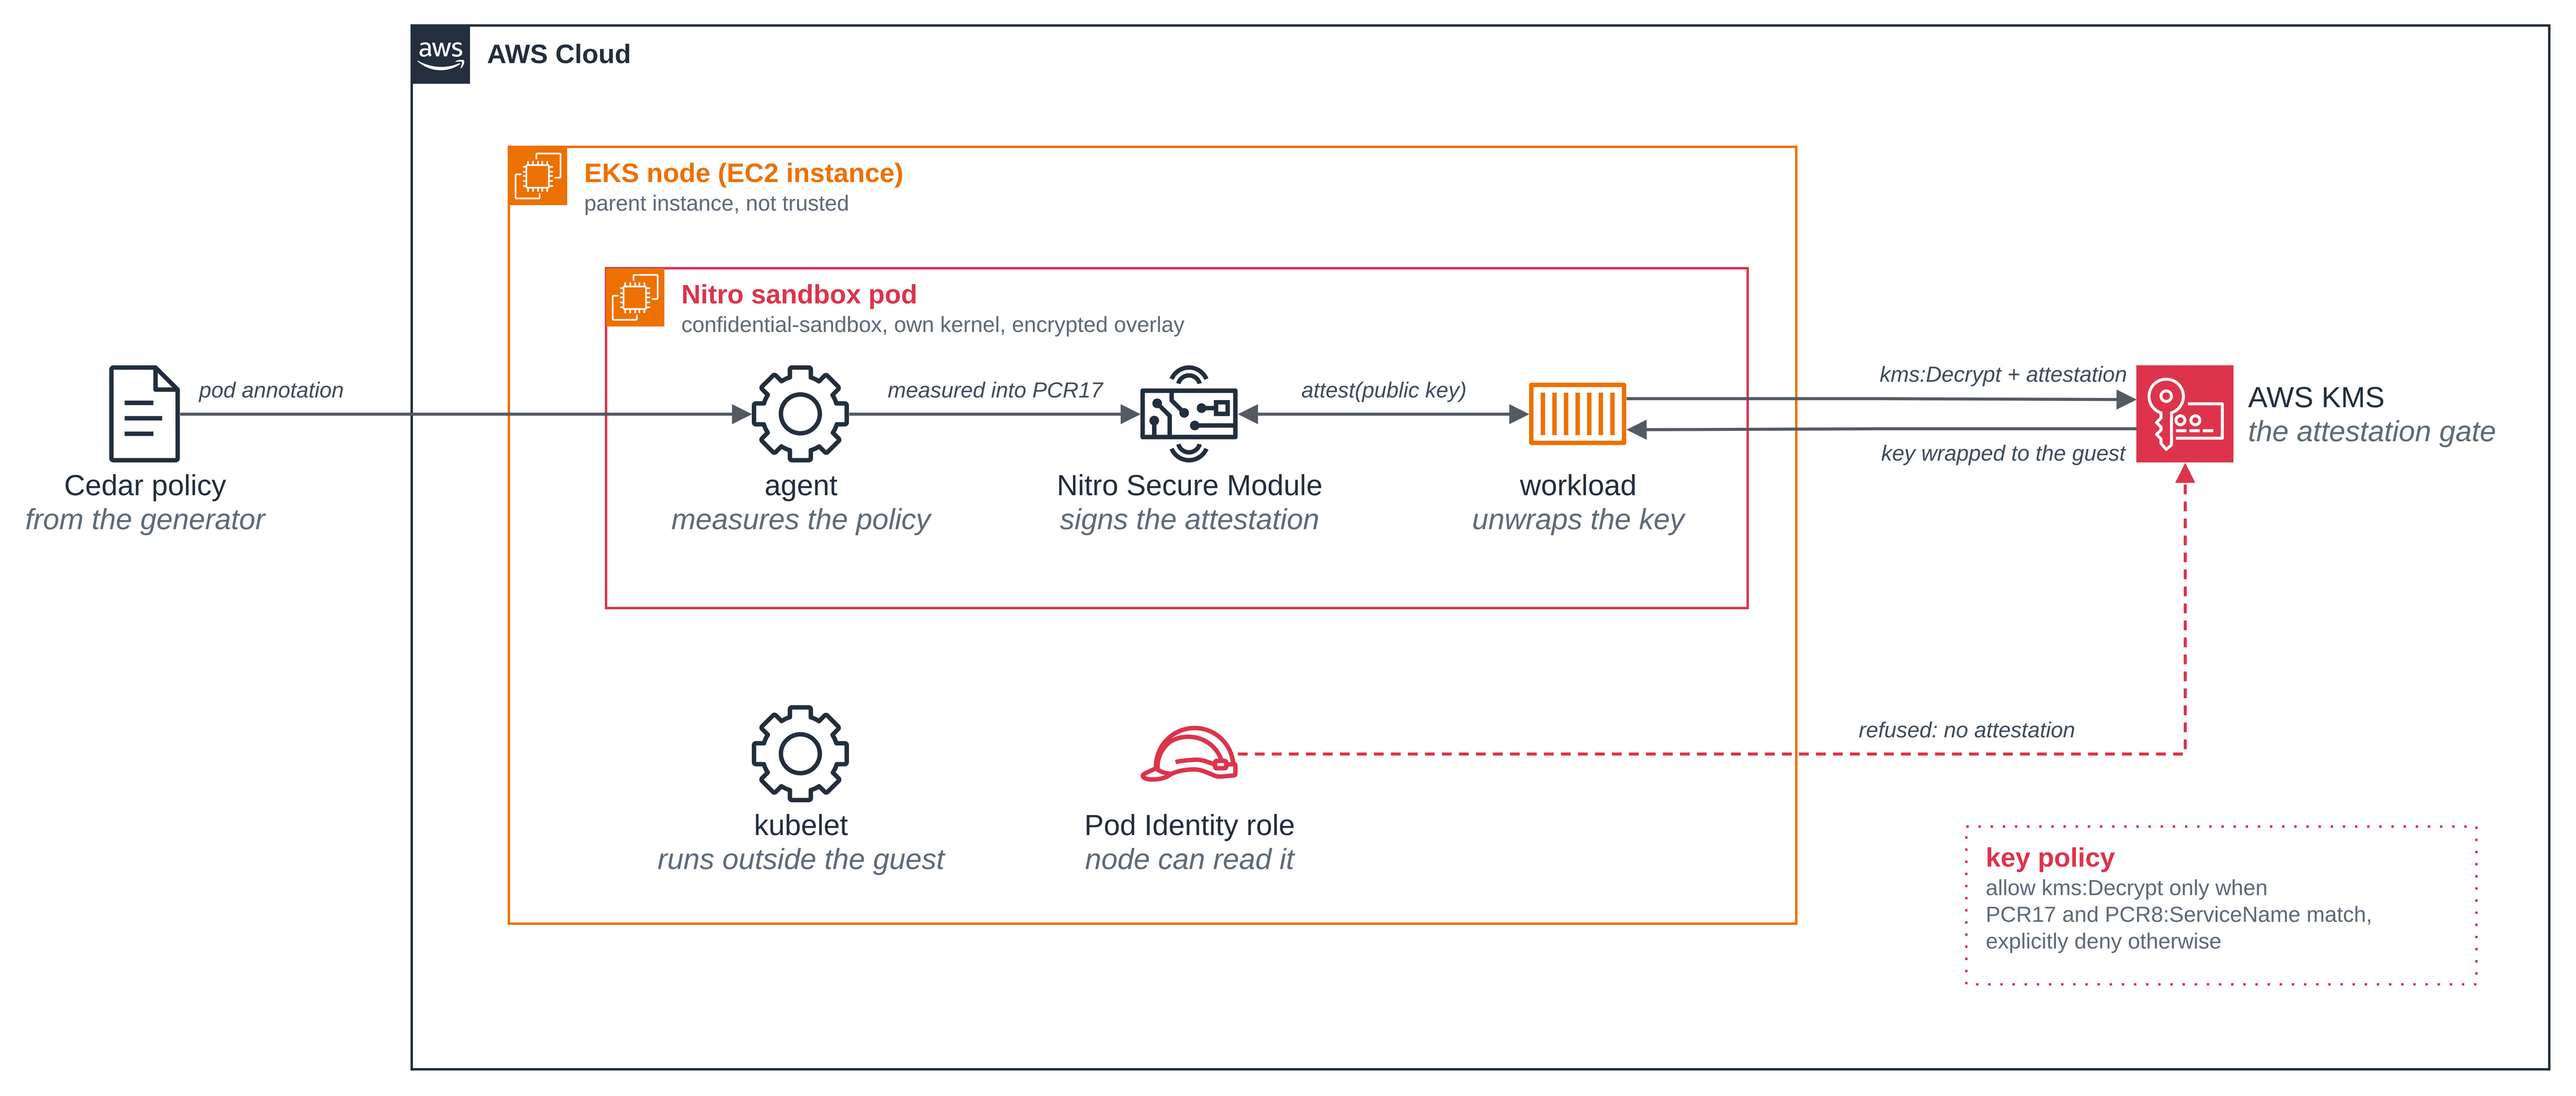
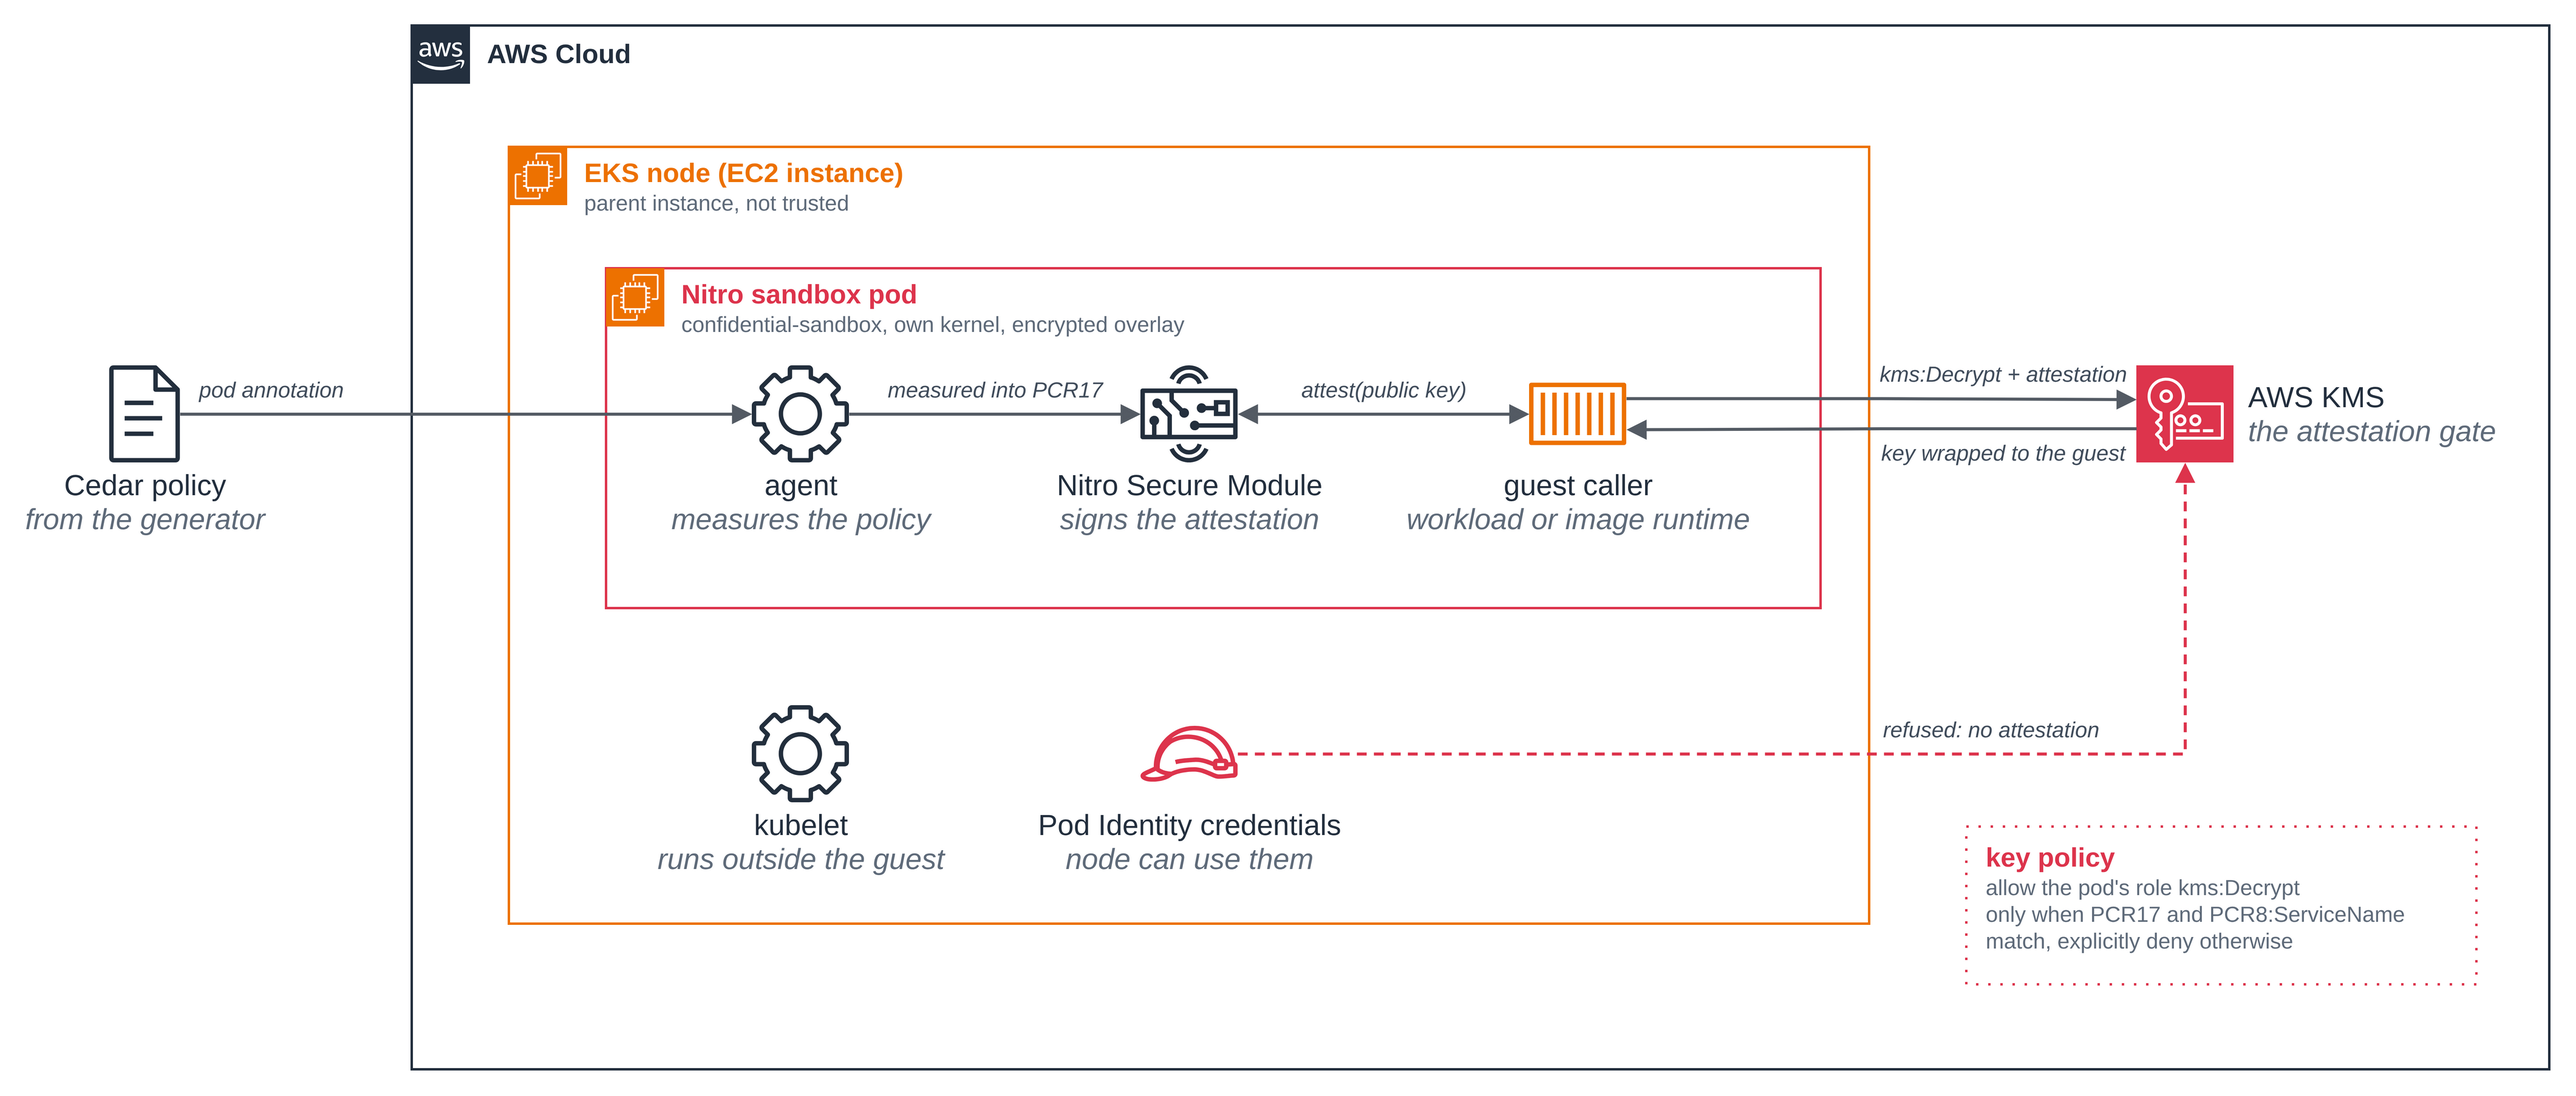
Confidential: fix four review findings on the PCR wording and figure 1
A Codex review (openai.gpt-5.6-sol) of a0487f3 against the User Guide source found:
- "identifies the signer rather than one particular build" was an inference the guide
  never makes; replaced with the guide's own wording for PCR8:ServiceName (the system
  image signing certificate condition, used so it survives certificate rotation).
- "every key policy" was broader than the guide, which scopes the minimum to a KMS key
  protecting confidential workload data; and the guide's statement that these conditions
  enforce the integrity of the Cedar policy and system image was missing.
- the figure made the workload the only KMS caller, while encrypted-image's caller is the
  guest image runtime; it is now "guest caller: workload or image runtime".
- the caption said KMS checks "the attestation, not the credentials", but the allow names
  the pod's role; caption, note and paragraph now say the credentials are not enough on
  their own, and the refused arrow comes from the credentials the node can use.

mkdocs build --strict and both check scripts pass; check_drawio.py reports no errors and
the re-exported PNG was viewed.

diff --git a/examples/confidential/README.md b/examples/confidential/README.md
@@ -18,18 +18,21 @@ layer and its `emptyDir` volumes sit on an encrypted overlay inside the sandbox 
 User Guide, *Security model and parent instance trust assumptions*).
 
 The figure shows how the pieces on this page fit together. The node sits outside the
-boundary, and so do the Pod Identity credentials, which the node can read. Inside the
-sandbox, the agent measures the pod's Cedar policy into `PCR17`, and the workload asks the
-Nitro Secure Module for an attestation document carrying a public key of its own. AWS KMS,
-outside the cluster, releases the key only to a request whose attestation matches the key
-policy, and it returns that key wrapped to the guest's public key, so only the guest can
-unwrap it. The node holds the same credentials but has no attestation to present, and is
-refused.
+boundary, and it can use the pod's Pod Identity credentials. Inside the sandbox, the agent
+measures the pod's Cedar policy into `PCR17`, and a guest caller asks the Nitro Secure
+Module for an attestation document carrying a public key of its own. The guest caller is
+the workload in the two application samples, and the guest image runtime in
+[encrypted-image](encrypted-image/README.md). AWS KMS, outside the cluster, allows
+`kms:Decrypt` to the pod's role only when the attestation also matches the key policy, and
+it returns the key wrapped to the guest's public key, so only the guest can unwrap it. The
+node can send the same request with the same credentials, but it has no matching
+attestation to present, and is refused.
 
-*Figure 1: How a confidential pod gets a key. KMS checks the attestation, not the
-credentials, and returns the key wrapped so that only the guest can open it.*
+*Figure 1: How a confidential pod gets a key. The credentials alone are not enough: KMS
+also requires a matching attestation, and returns the key wrapped so that only the guest
+can open it.*
 
-![A focused view of a confidential pod. On the left, outside the AWS Cloud frame, a Cedar policy from the generator reaches the sandbox as a pod annotation. Inside the AWS Cloud frame, an EKS node frame, labelled parent instance, not trusted, holds a Nitro sandbox pod frame labelled confidential-sandbox, own kernel, encrypted overlay. In the sandbox, the annotation arrives at the agent, which measures the policy; an arrow labelled measured into PCR17 goes from the agent to the Nitro Secure Module, which signs the attestation; a two-way arrow labelled attest(public key) joins the Nitro Secure Module and the workload, which unwraps the key. From the workload, an arrow labelled kms:Decrypt plus attestation goes to AWS KMS, the attestation gate, outside the node, and an arrow labelled key wrapped to the guest comes back. Below the sandbox, still on the node, are the kubelet, which runs outside the guest, and the Pod Identity role, which the node can read; a red dashed arrow from the role to AWS KMS is labelled refused: no attestation. A note under AWS KMS reads: key policy, allow kms:Decrypt only when PCR17 and PCR8:ServiceName match, explicitly deny otherwise.](images/figure-1-confidential-pod.png)
+![A focused view of a confidential pod. On the left, outside the AWS Cloud frame, a Cedar policy from the generator reaches the sandbox as a pod annotation. Inside the AWS Cloud frame, an EKS node frame, labelled parent instance, not trusted, holds a Nitro sandbox pod frame labelled confidential-sandbox, own kernel, encrypted overlay. In the sandbox, the annotation arrives at the agent, which measures the policy; an arrow labelled measured into PCR17 goes from the agent to the Nitro Secure Module, which signs the attestation; a two-way arrow labelled attest(public key) joins the Nitro Secure Module and the guest caller, which is the workload or the image runtime. From the guest caller, an arrow labelled kms:Decrypt plus attestation goes to AWS KMS, the attestation gate, outside the node, and an arrow labelled key wrapped to the guest comes back. Below the sandbox, still on the node, are the kubelet, which runs outside the guest, and the Pod Identity credentials, which the node can use; a red dashed arrow from the credentials to AWS KMS is labelled refused: no attestation. A note under AWS KMS reads: key policy, allow the pod's role kms:Decrypt only when PCR17 and PCR8:ServiceName match, explicitly deny otherwise.](images/figure-1-confidential-pod.png)
 
 Two consequences shape every sample here.
 
@@ -142,14 +145,16 @@ deny for it; the setup script's gate check reads the live policy back and refuse
 if it finds the merged form.
 
 **What each condition binds.** These two are the minimum the Amazon EKS User Guide,
-*Security model and parent instance trust assumptions*, asks every key policy to include.
+*Security model and parent instance trust assumptions*, asks for on a KMS key that protects
+confidential workload data, and the guide describes them as what enforces the integrity of
+the Cedar policy and the system image.
 
-- `PCR17` binds key release to one exact policy document, and so to the image digest,
-  environment, identity and mounts that policy pins. A changed policy gives a different
-  `PCR17`, and KMS refuses to decrypt.
-- `PCR8:ServiceName` binds release to a sandbox environment image signed by the Amazon EKS
-  signing certificate, and stays valid when AWS rotates that certificate. It identifies the
-  certificate that signed the environment image, not one particular build of that image.
+- `PCR17` is the policy hash. It binds key release to one exact policy document, and so to
+  the image digest, environment, identity and mounts that policy pins. A changed policy
+  gives a different `PCR17`, and KMS refuses to decrypt.
+- `PCR8:ServiceName` is the condition on the system image signing certificate. Use it
+  rather than a raw `PCR8` value, so that the condition stays valid when AWS rotates that
+  certificate.
 
 ## The attested decrypt
 

diff --git a/examples/confidential/secrets-manager-secret/README.md b/examples/confidential/secrets-manager-secret/README.md
@@ -791,11 +791,12 @@ Remove it when you have read it:
   [network policy](../../isolation/network-policy/README.md), which shows the mechanism and
   both sides of it.
 - **The gate is the two conditions the generator emits.** They are also the minimum the
-  Amazon EKS User Guide, *Security model and parent instance trust assumptions*, asks for.
-  `PCR17` binds key release to this exact policy document, and so to the image digest, the
-  command, the environment, the identity and the mounts it pins. `PCR8:ServiceName` binds
-  release to a sandbox environment image signed by the Amazon EKS signing certificate, which
-  identifies the signer rather than one particular build of that image. A key policy can
+  Amazon EKS User Guide, *Security model and parent instance trust assumptions*, asks for on
+  a KMS key that protects confidential workload data. `PCR17` binds key release to this
+  exact policy document, and so to the image digest, the command, the environment, the
+  identity and the mounts it pins. `PCR8:ServiceName` is the condition on the system image
+  signing certificate, used rather than a raw `PCR8` value so that it stays valid when AWS
+  rotates that certificate. A key policy can
   carry more registers; if you add one, give it a deny statement of its own: registers
   listed together in one deny are ANDed, so such a deny only fires when every one of them
   mismatches. The

diff --git a/examples/confidential/encrypted-image/README.md b/examples/confidential/encrypted-image/README.md
@@ -858,11 +858,12 @@ own node.
   answer from KMS" as no evidence rather than as a denial. The "attempt 1 ... replacing it"
   line in its output is that retry.
 - **The gate is the two conditions the generator emits.** They are also the minimum the
-  Amazon EKS User Guide, *Security model and parent instance trust assumptions*, asks for.
-  `PCR17` binds key release to this exact policy document, and so to the image digest, the
-  environment, the identity and the mounts it pins. `PCR8:ServiceName` binds release to a
-  sandbox environment image signed by the Amazon EKS signing certificate, which identifies
-  the signer rather than one particular build of that image. A key policy can carry more
+  Amazon EKS User Guide, *Security model and parent instance trust assumptions*, asks for on
+  a KMS key that protects confidential workload data. `PCR17` binds key release to this
+  exact policy document, and so to the image digest, the environment, the identity and the
+  mounts it pins. `PCR8:ServiceName` is the condition on the system image signing
+  certificate, used rather than a raw `PCR8` value so that it stays valid when AWS rotates
+  that certificate. A key policy can carry more
   registers; if you add one, give it a deny statement of its own: registers listed
   together in one deny are ANDed, so such a deny only fires when every one of them
   mismatches. The

diff --git a/examples/confidential/s3-encrypted-file/README.md b/examples/confidential/s3-encrypted-file/README.md
@@ -508,11 +508,12 @@ looking at it:
 ## Good to know
 
 - **The gate is the two conditions the generator emits.** They are also the minimum the
-  Amazon EKS User Guide, *Security model and parent instance trust assumptions*, asks for.
-  `PCR17` binds key release to this exact policy document, and so to the image digest, the
-  environment, the identity and the mounts it pins. `PCR8:ServiceName` binds release to a
-  sandbox environment image signed by the Amazon EKS signing certificate, which identifies
-  the signer rather than one particular build of that image. The
+  Amazon EKS User Guide, *Security model and parent instance trust assumptions*, asks for on
+  a KMS key that protects confidential workload data. `PCR17` binds key release to this
+  exact policy document, and so to the image digest, the environment, the identity and the
+  mounts it pins. `PCR8:ServiceName` is the condition on the system image signing
+  certificate, used rather than a raw `PCR8` value so that it stays valid when AWS rotates
+  that certificate. The
   [Confidential section page](../README.md#the-policy-and-its-measurement) sets this out in
   full.
 - **One file, read into memory in one piece.** The application reads the whole object and
